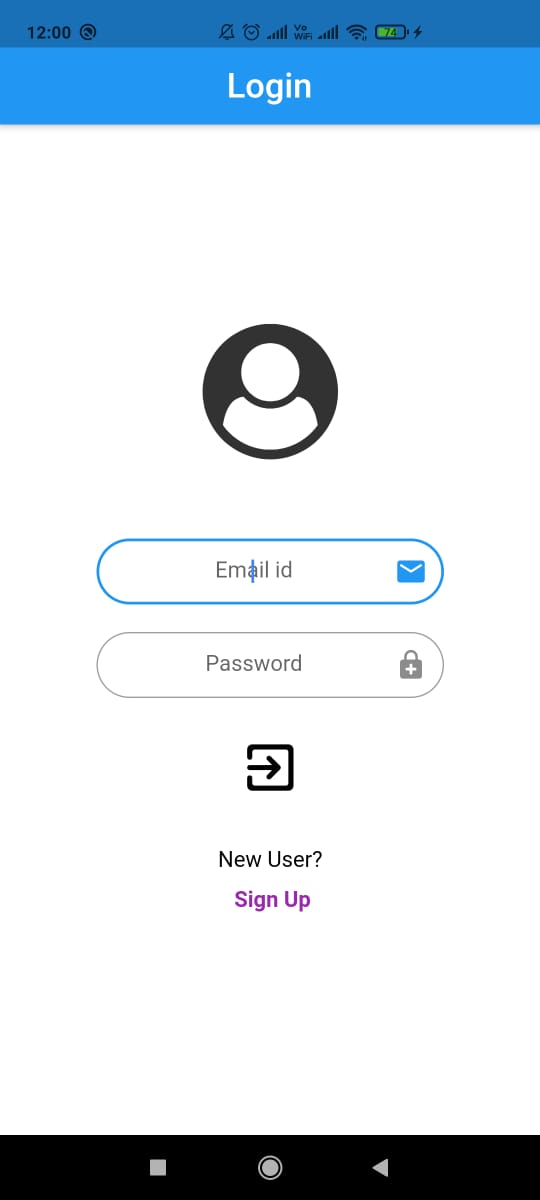
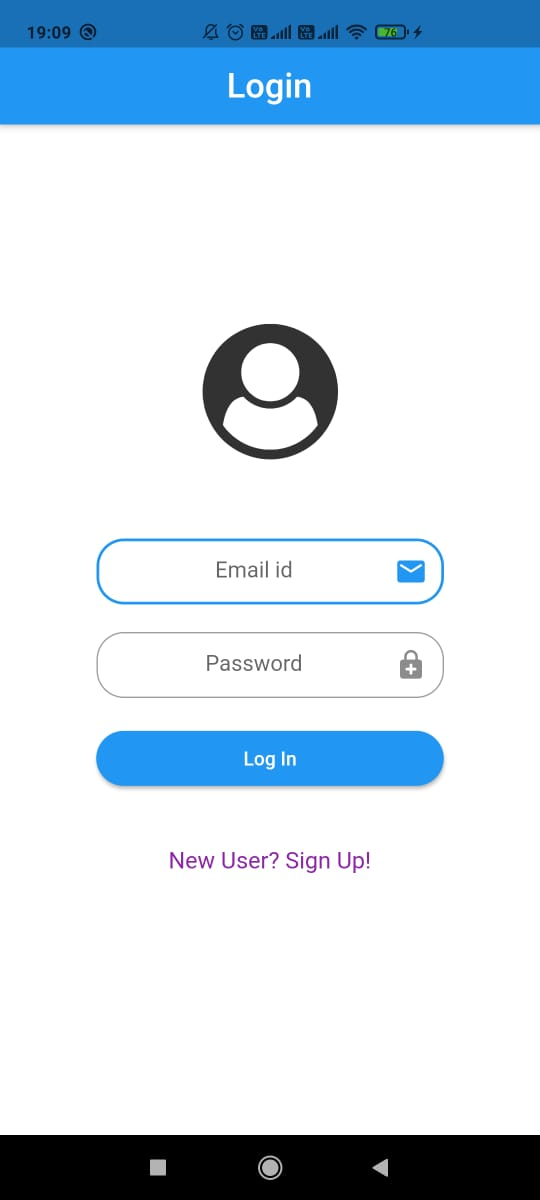
Login UI change

diff --git a/lib/Pages/ccpage.dart b/lib/Pages/ccpage.dart
@@ -1,4 +1,5 @@
 import 'dart:convert';
+import 'package:api_app/News/news.dart';
 import 'package:flutter/material.dart';
 import 'package:fluttertoast/fluttertoast.dart';
 import 'package:http/http.dart' as http;
@@ -10,14 +11,26 @@ class CcPage extends StatefulWidget {
 
 int len = 0;
 
-class _CcPageState extends State<CcPage> {
+class _CcPageState extends State<CcPage> with TickerProviderStateMixin {
+  TabController tabCont;
+
+  @override
+  void initState() {
+    super.initState();
+    tabCont=new TabController(length: 3, vsync: this);
+  }
+
+  @override
+  void dispose() {
+    tabCont.dispose();
+    super.dispose();
+  }
+
   @override
   Widget build(BuildContext context) {
     var apiRes;
 
-    Future<List<dynamic>> getApi() async {
-      String url =
-          "https://pro-api.coinmarketcap.com/v1/cryptocurrency/listings/latest";
+    Future<List<dynamic>> getApi(String url) async {
       var response = await http.get(url, headers: {
         "X-CMC_PRO_API_KEY": "e929e673-12da-45fc-86f5-89a77993ed31"
       });
@@ -28,14 +41,30 @@ class _CcPageState extends State<CcPage> {
     }
 
     return Scaffold(
+      bottomNavigationBar: Container(
+        height: 50,
+        child: Material(
+          color: Colors.grey[100],
+          child: TabBar(
+            labelColor: Colors.blue,
+            controller: tabCont,
+            tabs: <Widget>[
+              Icon(Icons.monetization_on_rounded,size:26,),
+              Icon(Icons.money,size:26,),
+              Icon(Icons.more,size:26,),
+            ],
+          ),
+        ),
+      ),
       appBar: AppBar(
-        title: Text("CRYPTOCURRENCY"),
+        title: Text("Stock Feed"),
         centerTitle: true,
         actions: <Widget>[
+          
           IconButton(
               icon: Icon(Icons.monetization_on),
               onPressed: () async {
-                var temp = await getApi();
+                var temp = await getApi(url);
                 setState(() {
                   len = temp.length;
                 });
@@ -50,12 +79,27 @@ class _CcPageState extends State<CcPage> {
               })
         ],
       ),
-      body: FutureBuilder(
-          future: getApi(),
+      body: TabBarView(
+        controller: tabCont,
+        children: [
+          FutureBuilder(
+          future: getApi("https://pro-api.coinmarketcap.com/v1/cryptocurrency/listings/latest"),
           builder: (context, snapshot) {
             return _apiWidget(snapshot);
           }),
-    );
+          FutureBuilder(
+          future: getApi("https://pro-api.coinmarketcap.com/v1/cryptocurrency/listings/latest"),
+          builder: (context, snapshot) {
+            
+            return _apiWidget(snapshot);
+          }),
+          FutureBuilder(
+          future: getApi("https://pro-api.coinmarketcap.com/v1/cryptocurrency/listings/latest"),
+          builder: (context, snapshot) {
+            return _apiWidget(snapshot);
+          }), 
+        ],
+    ));
   }
 }
 
@@ -65,32 +109,81 @@ Widget _apiWidget(AsyncSnapshot snapshot) {
     return ListView.builder(
       itemBuilder: (context, index) {
         return Card(
-          shape: RoundedRectangleBorder(borderRadius: BorderRadius.circular(20)),
+          shape:
+              RoundedRectangleBorder(borderRadius: BorderRadius.circular(20)),
           shadowColor: Colors.blue[700],
           elevation: 5,
-          child: ListTile(
-            title: Text(data[index]["name"]),
-            leading: CircleAvatar(
-              foregroundColor: Colors.orange.shade800,
-              backgroundColor: Colors.lightBlueAccent,
-              child: Text(data[index]["name"][0]),
-            ),
-            trailing: Column(
-              mainAxisAlignment: MainAxisAlignment.spaceEvenly,
-              children: <Widget>[
-                Text(data[index]["symbol"]),
-                Text(data[index]["cmc_rank"].toString(),
-                style: TextStyle(
-                  fontWeight: FontWeight.bold
-                ),),
-              ],
-            ),
-            subtitle: Text(data[index]["slug"]),
-          ),
+          child: _listItem(data, index),
         );
       },
       itemCount: len,
     );
   } else
     return Center(child: CircularProgressIndicator());
+}
+
+Widget size = SizedBox(height: 5);
+
+Widget _listItem(data, index) {
+  return ExpansionTile(
+    title: Text(data[index]["name"], style: TextStyle(fontSize: 17)),
+    subtitle: (data[index]["quote"]["USD"]["percent_change_24h"] >= 0
+        ? Text(
+            data[index]["quote"]["USD"]["percent_change_24h"]
+                    .toStringAsFixed(3) +
+                "%",
+            style: TextStyle(fontSize: 15, color: Colors.green[700]))
+        : Text(
+            data[index]["quote"]["USD"]["percent_change_24h"]
+                    .toStringAsFixed(3) +
+                "%",
+            style: TextStyle(fontSize: 15, color: Colors.red[600]))),
+    leading: CircleAvatar(
+      foregroundColor: Colors.orange.shade800,
+      backgroundColor: Colors.lightBlueAccent,
+      child: Text(data[index]["name"][0]),
+    ),
+    trailing: Column(
+      mainAxisAlignment: MainAxisAlignment.spaceEvenly,
+      children: <Widget>[
+        Text(data[index]["symbol"]),
+        Text(
+          "\$" + data[index]["quote"]["USD"]["price"].toStringAsFixed(2),
+          style: TextStyle(fontSize: 17, color: Colors.blue[700]),
+        ),
+        Text(
+          data[index]["cmc_rank"].toString(),
+          style: TextStyle(fontWeight: FontWeight.bold),
+        ),
+      ],
+    ),
+    children: [
+      Padding(
+        padding: const EdgeInsets.all(8.0),
+        child: Row(
+          mainAxisAlignment: MainAxisAlignment.spaceBetween,
+          children: [
+            Column(children: [
+              Text("Max supply: " + data[index]["max_supply"].toString()),
+              size,
+              Text("Circ supply: " +
+                  (data[index]["circulating_supply"]).round().toString())
+            ]),
+            Column(
+              children: [
+                Text("Market Capital: \$" +
+                    (data[index]["quote"]["USD"]["market_cap"] / 1000000)
+                        .round()
+                        .toString() +
+                    " Mn"),
+                size,
+                Text("Total supply: " +
+                    data[index]["total_supply"].round().toString()),
+              ],
+            )
+          ],
+        ),
+      )
+    ],
+  );
 }

diff --git a/lib/News/news.dart b/lib/News/news.dart
@@ -31,12 +31,12 @@ class _NewsState extends State<News> with SingleTickerProviderStateMixin {
 
   @override
   Widget build(BuildContext context) {
+    precacheImage(AssetImage("assets/Classified.jpg"), context);
     var apiRes;
     String u;
     Future<List<dynamic>> getApi(String url) async {
-      u = url;
       var response = await http
-          .get(u, headers: {"X-Api-Key": "d0a6829cf6a64fda8651bf2e8052fc11"});
+          .get(url, headers: {"X-Api-Key": "d0a6829cf6a64fda8651bf2e8052fc11"});
       var _json = json.decode(response.body);
       apiRes = _json["articles"];
       len = apiRes.length;
@@ -90,17 +90,20 @@ class _NewsState extends State<News> with SingleTickerProviderStateMixin {
                 return _apiWidget(snapshot);
               }),
           FutureBuilder(
-              future: getApi("http://newsapi.org/v2/top-headlines?country=in&category=business"),
+              future: getApi(
+                  "http://newsapi.org/v2/top-headlines?country=in&category=business"),
               builder: (context, snapshot) {
                 return _apiWidget(snapshot);
               }),
           FutureBuilder(
-              future: getApi("http://newsapi.org/v2/top-headlines?country=us&category=science"),
+              future: getApi(
+                  "http://newsapi.org/v2/top-headlines?country=us&category=science"),
               builder: (context, snapshot) {
                 return _apiWidget(snapshot);
               }),
           FutureBuilder(
-              future: getApi("http://newsapi.org/v2/top-headlines?country=in&category=technology"),
+              future: getApi(
+                  "http://newsapi.org/v2/top-headlines?country=in&category=technology"),
               builder: (context, snapshot) {
                 return _apiWidget(snapshot);
               }),
@@ -117,8 +120,7 @@ Widget _apiWidget(AsyncSnapshot snapshot) {
     return ListView.builder(
       itemBuilder: (context, index) {
         return Card(
-          shape:
-              RoundedRectangleBorder(borderRadius: BorderRadius.circular(20)),
+          shape: RoundedRectangleBorder(borderRadius: BorderRadius.circular(20)),
           shadowColor: Colors.blue[800],
           elevation: 11,
           child: ListTile(
@@ -141,12 +143,9 @@ Widget _apiWidget(AsyncSnapshot snapshot) {
                   style: TextStyle(
                     color: Colors.black,
                     fontSize: 18,
-                   // fontWeight: FontWeight.bold,
                   ),
                 ),
-                SizedBox(
-                  height:7
-                ),
+                SizedBox(height: 7),
                 Text(
                   data[index]["description"] == null
                       ? "Tap for more info."
@@ -155,9 +154,7 @@ Widget _apiWidget(AsyncSnapshot snapshot) {
                   overflow: TextOverflow.ellipsis,
                   style: TextStyle(fontSize: 12, fontWeight: FontWeight.w400),
                 ),
-                SizedBox(
-                  height:3
-                ),
+                SizedBox(height: 3),
               ],
             ),
           ),

diff --git a/lib/homelogin.dart b/lib/homelogin.dart
@@ -41,7 +41,9 @@ class _HomePageState extends State<HomePage> {
         appBar: AppBar(
           title: Text(
             "Login",
-            style: TextStyle(fontSize: 25,),
+            style: TextStyle(
+              fontSize: 25,
+            ),
           ),
           centerTitle: true,
         ),
@@ -59,9 +61,10 @@ class _HomePageState extends State<HomePage> {
               ),
             ),
             SizedBox(height: 55),
-            TextField(
+            TextFormField(
+              keyboardType: TextInputType.emailAddress,
               textAlign: TextAlign.center,
-              autofocus: true,
+              autofocus: false,
               cursorHeight: 21,
               cursorWidth: 2,
               decoration: buildBorder("Email id", Icon(Icons.email_rounded)),
@@ -78,27 +81,29 @@ class _HomePageState extends State<HomePage> {
                   "Password", Icon(Icons.enhanced_encryption_rounded)),
             ),
             SizedBox(height: 20),
-            IconButton(
-              color: Colors.black,
-              icon: Icon(Icons.exit_to_app_rounded, size: 45),
-              onPressed: () => firebaseLogin(
-                  _email.text.toString().trim(), _pwd.text.toString().trim()),
+            RaisedButton(
+                shape: RoundedRectangleBorder(
+                  borderRadius: BorderRadius.circular(24),
+                ),
+                onPressed: () => firebaseLogin(
+                    _email.text.toString().trim(), _pwd.text.toString().trim()),
+                padding: EdgeInsets.all(12),
+                color: Colors.blue,
+                child: Text('Log In', style: TextStyle(color: Colors.white)),
             ),
-            SizedBox(height: 40,),
-            Center(
-                child: Text(
-              "New User?",
-              style: TextStyle(
-                color: Colors.black,
-                fontSize: 16,
-              ),
-            )),
-            SizedBox(height: 10,),
+            SizedBox(
+              height: 40,
+            ),
             GestureDetector(
               onTap: () => Navigator.push(
                   context, MaterialPageRoute(builder: (context) => SignUp())),
-              child: Text(" Sign Up",textAlign: TextAlign.center,
-                style: TextStyle(color: Colors.purple,fontSize: 16,fontWeight: FontWeight.bold),
+              child: Text(
+                "New User? Sign Up!",
+                textAlign: TextAlign.center,
+                style: TextStyle(
+                    color: Colors.purple[600],
+                    fontSize: 17,
+                ),
               ),
             )
           ],
@@ -112,6 +117,6 @@ class _HomePageState extends State<HomePage> {
         contentPadding: EdgeInsets.only(left: 25),
         hintText: h,
         suffixIcon: i,
-        border: OutlineInputBorder(borderRadius: BorderRadius.circular(100)));
+        border: OutlineInputBorder(borderRadius: BorderRadius.circular(20)));
   }
 }

diff --git a/lib/SignUp.dart b/lib/SignUp.dart
@@ -58,6 +58,16 @@ class _SignUpState extends State<SignUp> {
           SizedBox(height: 20),
           TextField(
             cursorHeight: 21,
+            controller: _email,
+            cursorWidth: 2,
+            keyboardType: TextInputType.emailAddress,
+            obscureText: true,
+            decoration: buildBorder(
+                "Email id", Icon(Icons.email)),
+          ),
+          SizedBox(height: 20),
+          TextField(
+            cursorHeight: 21,
             cursorWidth: 2,
             controller: _pwd,
             keyboardType: TextInputType.visiblePassword,
@@ -65,14 +75,17 @@ class _SignUpState extends State<SignUp> {
             decoration: buildBorder(
                 "Password", Icon(Icons.enhanced_encryption_rounded)),
           ),
-          SizedBox(height: 20),
-          IconButton(
-            icon: Icon(Icons.login),
-            iconSize: 40,
-            onPressed: () => signup(
+          SizedBox(height:20),
+          RaisedButton(
+        shape: RoundedRectangleBorder(
+          borderRadius: BorderRadius.circular(24),
+        ),
+        onPressed: () => signup(
                 _email.text.toString().trim(), _pwd.text.toString().trim()),
-            ),
-        ],
+        padding: EdgeInsets.all(12),
+        color: Colors.blue,
+        child: Text('Sign Up', style: TextStyle(color: Colors.white)),
+      ),],
       ),
     );
   }
